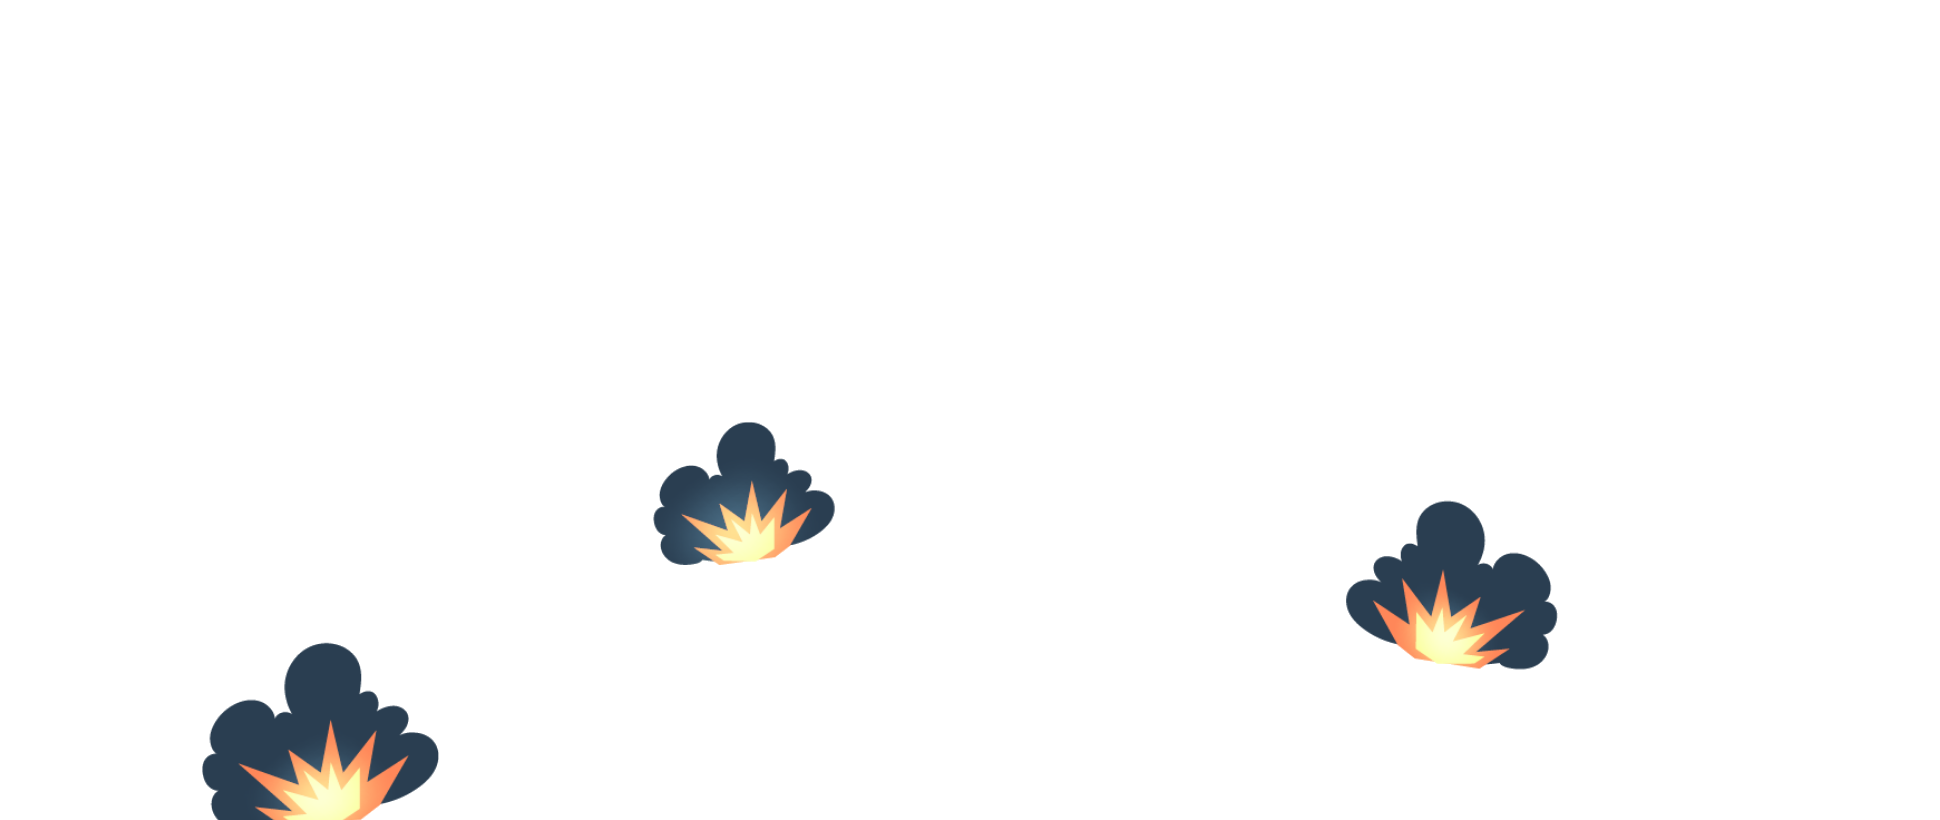
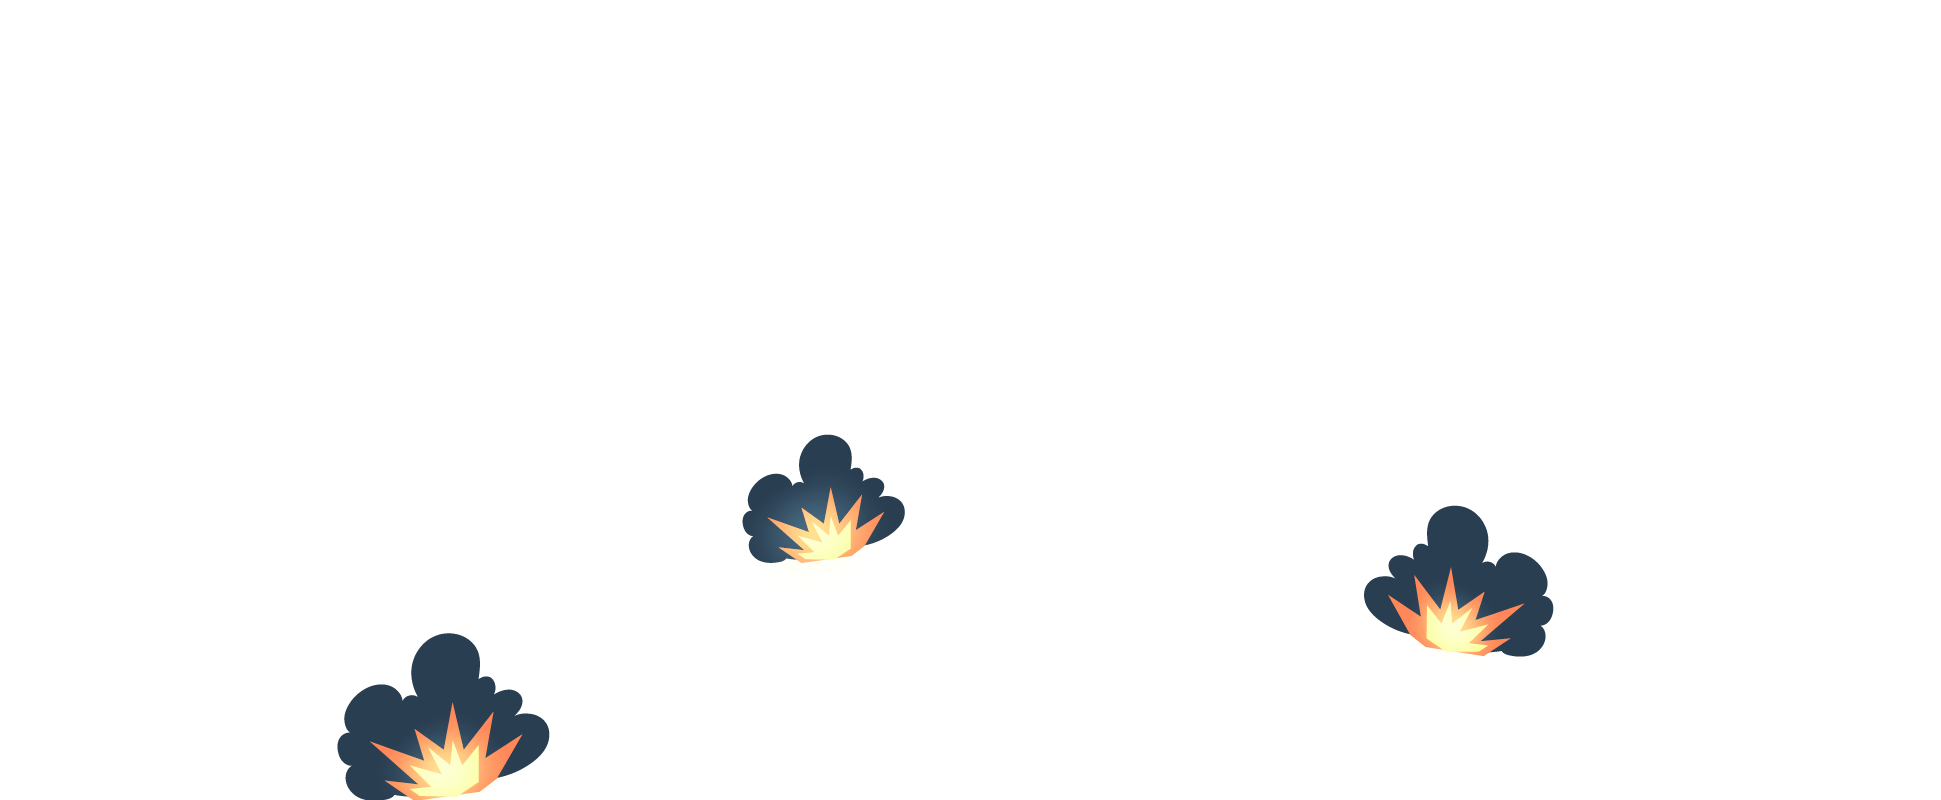
Fix parallax effect

Changed region(s): [[0.0928, 0.7812, 0.3093, 1.0], [0.6804, 0.5938, 0.8041, 0.8438], [0.3402, 0.5, 0.4639, 0.7188]]

diff --git a/style.css b/style.css
@@ -9,6 +9,7 @@
 }
 html{
     scroll-behavior: smooth;
+    overflow-x: hidden;
 }
 
 /* custom scroll bar */
@@ -84,7 +85,7 @@ section .title::after{
     z-index: 999;
     padding: 30px 0;
     font-family: 'Ubuntu', sans-serif;
-    transition: all 0.3s ease;
+    transition: all 0.6s ease;
 }
 .navbar.sticky{
     padding: 15px 0;
@@ -160,58 +161,6 @@ section .title::after{
 .scroll-up-btn:hover{
     filter: brightness(90%);
 }
-
-
-/* home section styling */
-/* .home{
-    display: flex;
-    background: url("images/background/background.png") no-repeat left;
-    height: 100vh;
-    color: #fff;
-    min-height: 500px;
-    background-size: cover;
-    background-attachment: fixed;
-    font-family: 'Ubuntu', sans-serif;
-}
-section#home .max-width{
-  width: 100%;
-  display: flex;
-}
-section#home .max-width .row{
-  margin-right: 0;
-}
-section#home .home-content .text-1{
-    font-size: 27px;
-}
-section#home .home-content .text-2{
-    font-size: 75px;
-    font-weight: 600;
-    margin-left: -3px;
-}
-section#home .home-content .text-3{
-    font-size: 40px;
-    margin: 5px 0;
-}
-section#home .home-content .text-3 span{
-    color: darkorange;
-    font-weight: 500;
-}
-section#home .home-content a{
-    display: inline-block;
-    background: darkorange;
-    color: #fff;
-    font-size: 25px;
-    padding: 12px 36px;
-    margin-top: 20px;
-    font-weight: 400;
-    border-radius: 6px;
-    border: 2px solid darkorange;
-    transition: all 0.3s ease;
-}
-section#home .home-content a:hover{
-    color: darkorange;
-    background: none;
-} */
 
 /* about section styling */
 .about .title::after{
@@ -771,11 +720,20 @@ footer span a:hover{
   }
 }
 
+/* home section styling */
 section#home{
     position: relative;
+    align-items: center;
+    display: flex;
     width: 100%;
     height: 100vh;
     padding: 100px;    
+    color: #fff;
+    min-height: 500px;
+    background-size: cover;
+    background-attachment: fixed;
+    font-family: 'Ubuntu', sans-serif;
+    /* background: url("images/background/background.png") no-repeat left; */
 }
 section#home img
 {
@@ -785,18 +743,7 @@ section#home img
     width: 100%;
     height: 100%;
     object-fit: cover;
-    z-index: 0;
-}
-section#home{
-    align-items: center;
-    display: flex;
-    height: 100vh;
-    color: #fff;
-    min-height: 500px;
-    background-size: cover;
-    background-attachment: fixed;
-    font-family: 'Ubuntu', sans-serif;
-    background: url("images/background/background.png") no-repeat left;
+    z-index: -1;
 }
 section#home .max-width{
   width: 100%;
@@ -839,9 +786,4 @@ section#home .home-content a{
 section#home .home-content a:hover{
     color: darkorange;
     background: none;
-}
-
-img#stars
-{
-    mix-blend-mode: screen;
 }

diff --git a/script.js b/script.js
@@ -1,7 +1,7 @@
 $(document).ready(function(){
     $(window).scroll(function(){
         // sticky navbar on scroll script
-        if(this.scrollY > 400){
+        if(this.scrollY > 600){
             $('.navbar').addClass("sticky");
         }else{
             $('.navbar').removeClass("sticky");
@@ -82,10 +82,12 @@ window.addEventListener('scroll', function()
 {
     let value = window.scrollY;
     stars.style.left = -0.4 * value + 'px';
-    if (value <= 175)
+    stars.style.top = 0.6 * value + 'px';
+    if (value <= 500)
     {
-        robots.style.marginTop = 0.5 * value + 'px';
-        fire.style.top = 0.2 * value + 'px';
+        robots.style.marginTop = 0.2 * value + 'px';
+        robots.style.left = 0.1 * value + 'px';
+        fire.style.left = 0.06 * value + 'px';
     }
 
     contact_btn.style.opacity = 100 - 0.3*value + '%';

diff --git a/index.html b/index.html
@@ -40,12 +40,12 @@
 
     <!-- home section start -->
     <section id="home">
-        <!-- <img src="images/background/background.png" id="background"> -->
+        <img src="images/background/background.png" id="background">
         <img src="images/background/stars.png" id="stars">
         <img src="images/background/fire.png" id="fire">
         <img src="images/background/robots.png" id="robots">
         <div class="home-content max_width"  id="content">
-            <div class="text-1">Hello, my name is</div>
+            <div class="text-1" id="txt1">Hello, my name is</div>
             <div class="text-2">Felipe Mohr</div>
             <div class="text-3">And I'm a <span class="typing"></span></div>
             <a href="#contact" id="contact_btn">Contact me</a>
